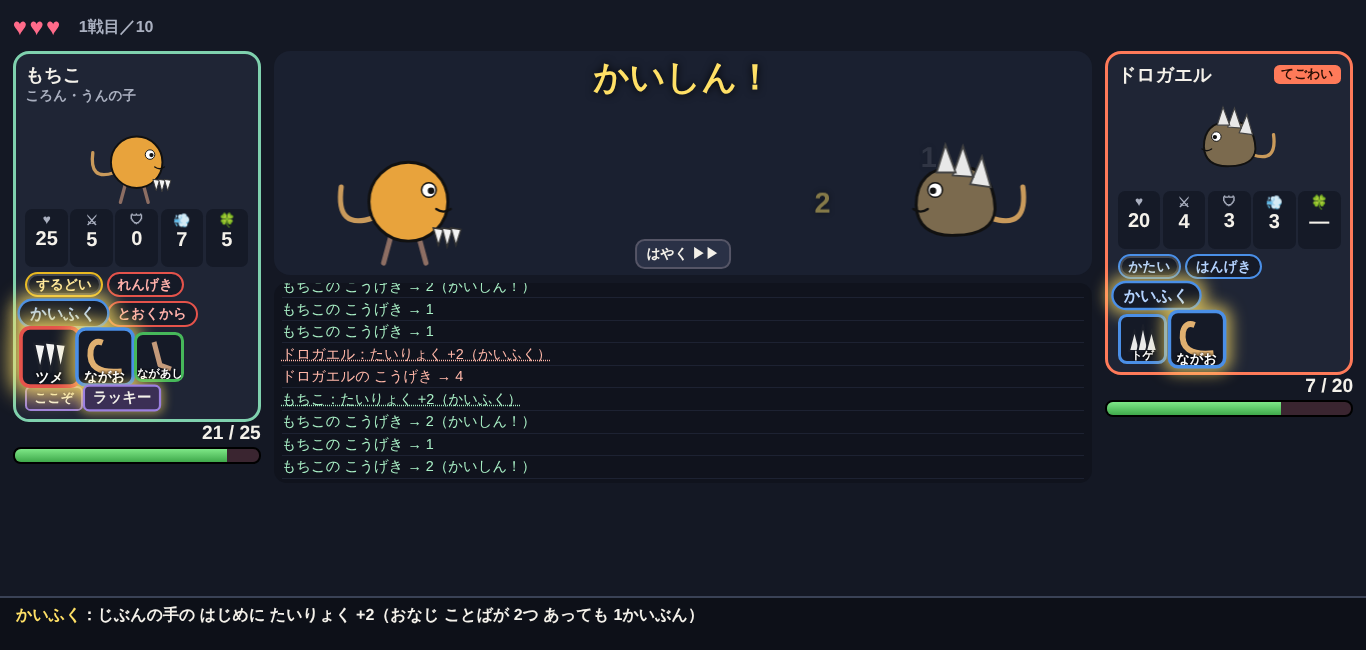
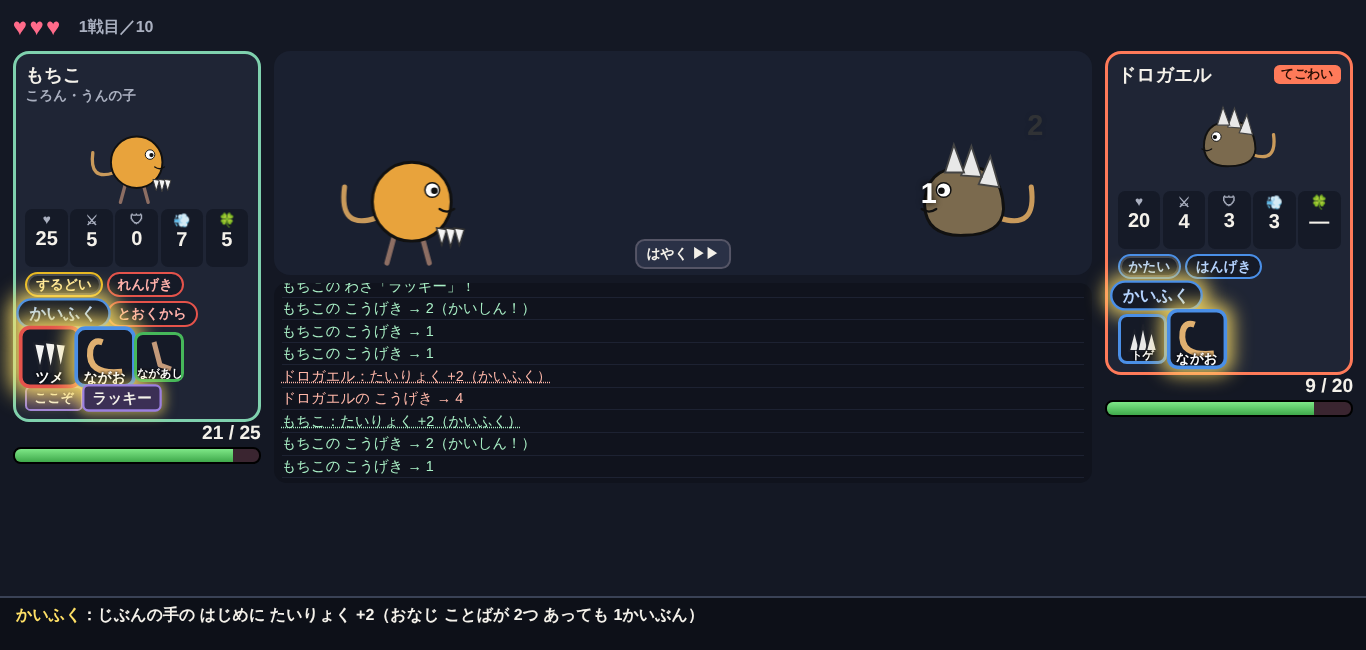
remake：Codex の P2 4つ（たおれた あとに すいとりで 生きかえらない・おわった 周回を 読みこみで 殿堂へ・おおなぐりも つぎに あたる 1げきまで 持ちこす・すいつくくちの 札の 名前）
Claude-Session: https://claude.ai/code/session_01MmzYoRX94Z8abKgnPsE65x

diff --git a/remake/sim.js b/remake/sim.js
@@ -50,7 +50,7 @@
     { id: 'hard',    name: 'かたい',     role: 'def',  text: function () { return 'まもり +' + CFG.hardDef; } },
     { id: 'counter', name: 'はんげき',   role: 'def',  text: function () { return 'ちかくから 1げき うけるたび、こうげきの 半分で やりかえす'; } },
     { id: 'regen',   name: 'かいふく',   role: 'def',  text: function () { return 'じぶんの手の はじめに たいりょく +' + CFG.regenHeal; } },
-    { id: 'leech', short: 'すいつく',   name: 'すいとり',   role: 'def',  text: function () { return 'あたえた ダメージの 1/3 だけ かいふく'; } },
+    { id: 'leech',   name: 'すいとり',   role: 'def',  text: function () { return 'あたえた ダメージの 1/3 だけ かいふく'; } },
     { id: 'immune',  name: 'へっちゃら', role: 'def',  text: function () { return 'どく・よろけ・もろい を うけない'; } },
     { id: 'fast',    name: 'はやい',     role: 'mov',  text: function () { return 'はやさ +' + CFG.fastSpd; } },
     { id: 'sharp',   name: 'するどい',   role: 'luck', text: function () { return 'かいしん +' + CFG.critSharp + '%'; } },
@@ -72,7 +72,7 @@
     { id: 'claw', short: 'ツメ',     name: 'するどいツメ', role: 'atk', kw: ['ren'],              line: 'あいてより はやければ 3げき', special: 'claw3' },
     { id: 'crush', short: 'くだく',    name: 'くだくツメ',   role: 'atk', kw: ['brittle', 'heavy'], line: 'こうげき +1', bonus: { atk: 1 } },
     { id: 'weight', short: 'おもし',   name: 'おもし',       role: 'atk', kw: ['heavy'],            line: '1げきごとに +1', special: 'weightPlus' },
-    { id: 'leech',    name: 'すいつくくち', role: 'def', kw: ['leech'],            line: 'たいりょく +3', bonus: { hp: 3 } },
+    { id: 'leech', short: 'すいつく', name: 'すいつくくち', role: 'def', kw: ['leech'],            line: 'たいりょく +3', bonus: { hp: 3 } },
     { id: 'spike', short: 'トゲ',    name: 'トゲ',         role: 'def', kw: ['counter'],          line: 'まもり +1', bonus: { def: 1 } },
     { id: 'shell', short: 'コウラ',    name: 'かたいコウラ', role: 'def', kw: ['hard', 'heavy'],    line: 'たいりょく +3', bonus: { hp: 3 } },
     { id: 'scale', short: 'うろこ',    name: 'いしのうろこ', role: 'def', kw: ['hard'],             line: 'まもり +1', bonus: { def: 1 } },
@@ -94,7 +94,7 @@
     { id: 'gaman',   name: 'がまん',     text: '1げき うけるたび、つぎの こうげきの 1げき +1（+3 まで）' },
     { id: 'hayauchi', name: 'はやうち',  text: 'さいしょの じぶんの手は 2かい こうげき' },
     { id: 'renda',   name: 'れんだ',     text: '4手ごとに、もう1かい こうげき' },
-    { id: 'oonaguri', name: 'おおなぐり', text: '4手ごとに、さいしょに あたる 1げきが ×2' },
+    { id: 'oonaguri', name: 'おおなぐり', text: '4手ごとに、つぎに あたる 1げきが ×2' },
     { id: 'ikari',   name: 'いかり',     text: 'たいりょくが 半分より すくないと こうげき +2' }
   ];
   var WAZA_BY_ID = {}; WAZA.forEach(function (w) { WAZA_BY_ID[w.id] = w; });
@@ -206,12 +206,12 @@
       if (charged) log({ t: 'kw', who: a.side, kw: 'charge' });
       var st = a.stagger; if (st) { a.stagger = false; log({ t: 'kw', who: a.side, kw: 'stagger', on: 'self' }); }
       var atk = a.st.atk + (a.waza.indexOf('ikari') >= 0 && a.hp * 2 < a.maxHp ? 2 : 0);
-      var dealtSum = 0, multLeft = opt.mult1 || 0;
+      var dealtSum = 0;
       for (var h = 0; h < hits && !dead(); h++) {
         // かいひ
         var dodge = a.kw.sure ? 0 : d.st.dodge;
         if (dodge > 0 && rng() * 100 < dodge) { dodged[d.side]++; log({ t: 'dodge', who: d.side, by: d.kw.yokeru ? 'yokeru' : d.kw.hirari ? 'hirari' : 'luck' }); if (d.waza.indexOf('lucky') >= 0) d.luckyNext = true; continue; }
-        var m = mult * (charged ? CFG.chargeMult : 1) * (st ? CFG.staggerMult : 1) * (multLeft ? multLeft : 1); multLeft = 0;
+        var m = mult * (charged ? CFG.chargeMult : 1) * (st ? CFG.staggerMult : 1) * (a.multPending || 1); a.multPending = 0;
         var raw = atk * m;
         if (a.sp.weightPlus) raw += 1;
         if (a.gaman) { raw += a.gaman; a.gaman = 0; }
@@ -241,7 +241,7 @@
           }
         }
       }
-      if (a.kw.leech && dealtSum > 0) heal(a, Math.round(dealtSum * CFG.leechRatio), 'leech');
+      if (a.kw.leech && dealtSum > 0 && a.hp > 0) heal(a, Math.round(dealtSum * CFG.leechRatio), 'leech');
     }
     function turn(a, d) {
       a.hands++;
@@ -255,7 +255,8 @@
       if (a.luckyNext) { a.luckyNext = false; forceCrit1 = true; log({ t: 'waza', who: a.side, w: 'lucky' }); }
       if (a.waza.indexOf('oonaguri') >= 0 && a.hands % 4 === 0) { mult1 = 2; log({ t: 'waza', who: a.side, w: 'oonaguri' }); }
       if (forceCrit1) a.critPending = true;
-      oneAttack(a, d, { hits: hits, mult1: mult1 });
+      if (mult1) a.multPending = mult1;
+      oneAttack(a, d, { hits: hits });
       var extra = 0;
       if (!dead() && a.sp.springExtra && a.hands % 3 === 0) { log({ t: 'kw', who: a.side, kw: 'springExtra' }); extra++; oneAttack(a, d, { hits: hits }); }
       if (!dead() && a.waza.indexOf('hayauchi') >= 0 && a.hands === 1) { log({ t: 'waza', who: a.side, w: 'hayauchi' }); oneAttack(a, d, { hits: hits }); }

diff --git a/remake/index.html b/remake/index.html
@@ -183,11 +183,17 @@ h2 { margin:.2rem 0 .5rem; font-size:1.3rem; }
   if (Q.get('reset') === '1') { try { Object.keys(localStorage).forEach(function (k) { if (k.indexOf(KEY) === 0) localStorage.removeItem(k); }); } catch (e) {} }
   var $ = function (id) { return document.getElementById(id); };
   var G = { run: lsGet('run', null), road: 0, hint: null, playing: null };
-  if (G.run && G.run.over) G.run = null;
+  if (G.run && G.run.over) { recordHall(G.run); G.run = null; lsSet('run', null); }
 
   function show(id) { Array.prototype.forEach.call(document.querySelectorAll('.screen'), function (s) { s.classList.toggle('on', s.id === id); }); window.scrollTo(0, 0); }
   function save() { lsSet('run', G.run); }
 
+  // 殿堂に のせる（おわった 周回。「おわり」を 押さずに 閉じても 次に 開いた ときに のせる）
+  function recordHall(run) {
+    var hall = lsGet('hall', []);
+    hall.push({ name: run.name, sp: S.SPECIES_BY_ID[run.species].name, wins: run.wins, clear: run.clear, parts: run.owned.slice(), at: Date.now() });
+    lsSet('hall', hall.slice(-50));
+  }
   // ---------- 絵 ----------
   function bodyShape(shape, color) {
     var st = ' fill="' + color + '" stroke="#111" stroke-width="4"';
@@ -246,7 +252,7 @@ h2 { margin:.2rem 0 .5rem; font-size:1.3rem; }
     fur: '<g fill="#f3e9d2"><circle cx="12.5" cy="22" r="7.5"/><circle cx="20" cy="14" r="8.5"/><circle cx="27.5" cy="22" r="7.5"/><circle cx="20" cy="27" r="7.5"/></g>'
   };
   function glyph(id) { return '<svg viewBox="0 0 40 40"><g stroke="#1b1f2a" stroke-width="2" stroke-linejoin="round">' + (GLYPH[id] || '') + '</g></svg>'; }
-  function ptile(id, extra, cls) { var p = S.PART_BY_ID[id]; return '<div class="ptile ' + p.role + (cls ? ' ' + cls : '') + '" data-part="' + id + '"' + (extra || '') + '>' + glyph(id) + '<span class="pname">' + p.short + '</span></div>'; }
+  function ptile(id, extra, cls) { var p = S.PART_BY_ID[id]; return '<div class="ptile ' + p.role + (cls ? ' ' + cls : '') + '" data-part="' + id + '"' + (extra || '') + '>' + glyph(id) + '<span class="pname">' + (p.short || p.name) + '</span></div>'; }
   function kwBadge(k, born) { var d = S.KW_BY_ID[k]; return '<span class="kw ' + d.role + (born ? ' born' : '') + '" data-kw="' + k + '">' + d.name + '</span>'; }
   var STAT_LABEL = { hp: '♥ たいりょく', atk: '⚔ こうげき', def: '🛡 まもり', spd: '💨 はやさ', luck: '🍀 うん' };
   var STAT_SHORT = { hp: '♥', atk: '⚔', def: '🛡', spd: '💨', luck: '🍀' };
@@ -484,9 +490,8 @@ h2 { margin:.2rem 0 .5rem; font-size:1.3rem; }
     if (AUTO) autoNext();
   }
   function endRun() {
-    var run = G.run, hall = lsGet('hall', []);
-    hall.push({ name: run.name, sp: S.SPECIES_BY_ID[run.species].name, wins: run.wins, clear: run.clear, parts: run.owned.slice(), at: Date.now() });
-    lsSet('hall', hall.slice(-50));
+    var run = G.run;
+    recordHall(run);
     if (AUTO) console.log('[でこもん auto] 周回 おわり：' + run.species + ' ' + run.wins + 'しょう' + (run.clear ? ' クリア' : '') + ' ハート ' + run.hearts);
     G.run = null; lsSet('run', null);
     drawTitle();

diff --git a/remake/tests.js b/remake/tests.js
@@ -85,6 +85,15 @@ noLuck(function () {
   for (var q = 0; q < 60; q++) { var rq = S.battle(P({ atk: 2, hp: 20 }), E({ atk: 4, hp: 300 }, [], ['yokeru']), q, { waza: ['kokozo'] });
     var on = false, done = false; rq.events.forEach(function (e) { if (e.t === 'waza' && e.w === 'kokozo') { on = true; } else if (on && !done && e.t === 'hit' && e.who === 'p') { done = true; tried++; if (e.crit) kept++; } }); }
   ok(tried > 0 && kept === tried, 'ここぞ：よけられても さいしょに あたる 1げきが かいしん（' + kept + '/' + tried + '）');
+  // おおなぐり：よけられても つぎに あたる 1げきが ×2（Codex P2）
+  var okO = true, seenO = 0;
+  for (var q2 = 0; q2 < 80; q2++) { var ro = S.battle(P({ atk: 5 }), E({ atk: 0, hp: 500 }, [], ['yokeru']), q2, { waza: ['oonaguri'] });
+    var onO = false; ro.events.forEach(function (e) { if (e.t === 'waza' && e.w === 'oonaguri') onO = true; else if (onO && e.t === 'hit' && e.who === 'p') { onO = false; seenO++; if (e.dmg !== 10 && e.dmg !== 20) okO = false; } }); }
+  ok(okO && seenO > 0, 'おおなぐり：よけられても つぎに あたる 1げきが ×2');
+  // たおれた あとに すいとりで 生きかえらない（Codex P2）
+  var revive = 0;
+  for (var q3 = 0; q3 < 200; q3++) { var rl = S.battle(P({ atk: 6, hp: 3 }, ['leech']), E({ atk: 1, hp: 300 }, ['spike']), q3); if (rl.events.some(function (e, i) { return e.t === 'heal' && e.who === 'p' && rl.events.slice(0, i).reverse().find(function (x) { return x.to === 'p' && x.hp !== undefined; }) && rl.events.slice(0, i).reverse().find(function (x) { return x.to === 'p' && x.hp !== undefined; }).hp <= 0; })) revive++; }
+  ok(revive === 0, 'たおれた あとに すいとりで かいふく しない');
   // 時間ぎれ：のこりの わりあいで（同じなら あいて）
   r = S.battle(P({ atk: 1, hp: 300 }), E({ atk: 1, hp: 300 }), 1);
   ok(r.timeout && r.win === false, '時間ぎれで 同じ わりあい → あいての かち');
